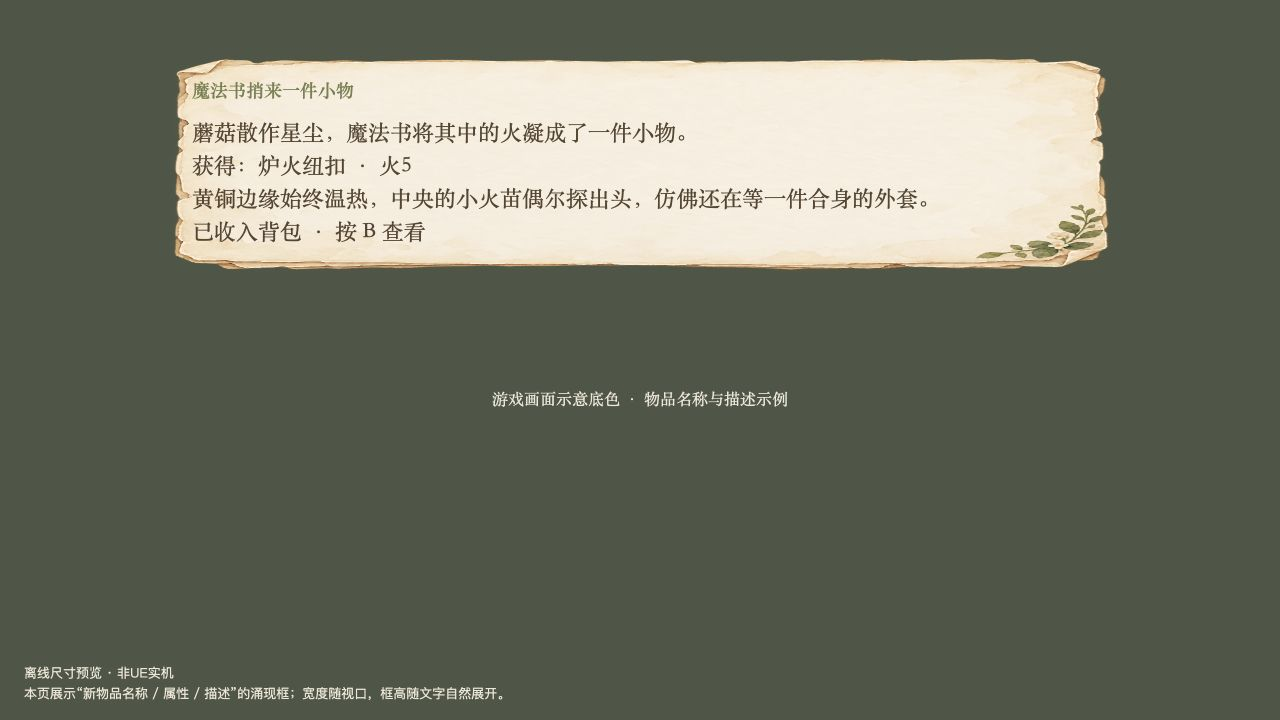
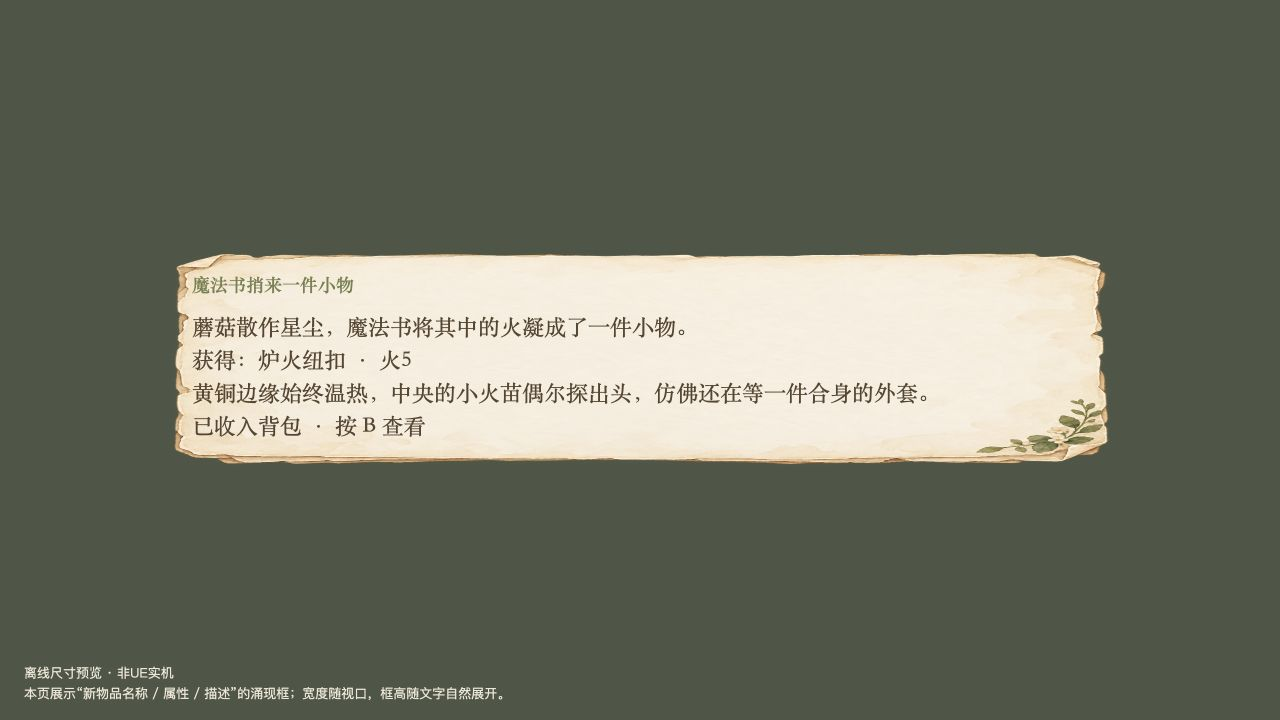
fix: center item emergence and NPC travel story notes

diff --git a/Docs/Item_Emergence_Preview.html b/Docs/Item_Emergence_Preview.html
@@ -1,4 +1,4 @@
-<!doctype html><html lang="zh-CN"><meta charset="utf-8"><meta name="viewport" content="width=device-width,initial-scale=1"><title>物品涌现提示框</title><style>*{box-sizing:border-box}body{margin:0;background:#4e5646;color:#57452f;font-family:"Songti SC",serif}.note{position:absolute;bottom:16px;left:24px;right:24px;color:#eee7d7;font:13px sans-serif;line-height:1.6}.anchor{padding:48px 24px 24px;display:flex;justify-content:center}.paper{width:min(960px,100%);padding:28px 32px 36px;background:url('../Content/UI/Textures/WoodlandPaper.png') center/100% 100%;height:auto}.heading{font-size:18px;font-weight:600;color:#77804d;line-height:1.5;margin:0 0 12px}.text{font-size:22px;line-height:1.5;white-space:pre-line;overflow-wrap:anywhere;margin:0}.surface{position:absolute;inset:0;pointer-events:none}.hint{color:#eee7d7;font-size:16px;text-align:center;margin:80px 24px 0}</style><div class="anchor"><section class="paper"><h1 class="heading">魔法书捎来一件小物</h1><p class="text">蘑菇散作星尘，魔法书将其中的火凝成了一件小物。
+<!doctype html><html lang="zh-CN"><meta charset="utf-8"><meta name="viewport" content="width=device-width,initial-scale=1"><title>物品涌现提示框</title><style>*{box-sizing:border-box}body{margin:0;background:#4e5646;color:#57452f;font-family:"Songti SC",serif}.note{position:absolute;bottom:16px;left:24px;right:24px;color:#eee7d7;font:13px sans-serif;line-height:1.6}.anchor{min-height:100dvh;padding:24px;display:flex;justify-content:center;align-items:center}.paper{width:min(960px,100%);padding:28px 32px 36px;background:url('../Content/UI/Textures/WoodlandPaper.png') center/100% 100%;height:auto}.heading{font-size:18px;font-weight:600;color:#77804d;line-height:1.5;margin:0 0 12px}.text{font-size:22px;line-height:1.5;white-space:pre-line;overflow-wrap:anywhere;margin:0}.surface{position:absolute;inset:0;pointer-events:none}.hint{color:#eee7d7;font-size:16px;text-align:center;margin:80px 24px 0}</style><div class="anchor"><section class="paper"><h1 class="heading">魔法书捎来一件小物</h1><p class="text">蘑菇散作星尘，魔法书将其中的火凝成了一件小物。
 获得：炉火纽扣 · 火5
 黄铜边缘始终温热，中央的小火苗偶尔探出头，仿佛还在等一件合身的外套。
-已收入背包 · 按 B 查看</p></section></div><p class="hint">游戏画面示意底色 · 物品名称与描述示例</p><div class="note">离线尺寸预览 · 非UE实机<br>本页展示“新物品名称 / 属性 / 描述”的涌现框；宽度随视口，框高随文字自然展开。</div></html>
+已收入背包 · 按 B 查看</p></section></div><div class="note">离线尺寸预览 · 非UE实机<br>本页展示“新物品名称 / 属性 / 描述”的涌现框；宽度随视口，框高随文字自然展开。</div></html>

diff --git a/Docs/NPC_Travel_Centered_Preview.html b/Docs/NPC_Travel_Centered_Preview.html
@@ -1,0 +1,1 @@
+<!doctype html><html lang="zh-CN"><meta charset="utf-8"><meta name="viewport" content="width=device-width,initial-scale=1"><title>交付物品后的引路故事</title><style>*{box-sizing:border-box}body{margin:0;background:#4e5646;color:#57452f;font-family:"Songti SC",serif}.anchor{min-height:100dvh;padding:24px;display:flex;align-items:center;justify-content:center}.paper{width:min(1000px,100%);height:min(400px,calc(100dvh - 48px));padding:30px 32px 42px;background:url('../Content/UI/Textures/WoodlandPaper.png') center/100% 100%;display:flex;flex-direction:column}.head{display:flex;gap:14px;align-items:center;flex-shrink:0}.portrait{width:52px;height:60px;border:1px solid #ba9b70;border-radius:20px 20px 4px 4px;display:flex;align-items:center;justify-content:center;font-size:18px;flex-shrink:0}.role{font-size:18px;color:#87765b}.title{font-size:25px;margin-top:5px}.story{font-size:22px;line-height:1.6;overflow:auto;flex:1;min-height:0;margin:14px 0}.foot{font-size:18px;line-height:1.5;color:#87765b;flex-shrink:0}.note{position:absolute;bottom:12px;left:24px;color:#eee7d7;font:12px sans-serif;line-height:1.6;pointer-events:none}@media(max-width:747px){.paper{height:min(600px,calc(100dvh - 48px))}}</style><div class="anchor"><section class="paper"><header class="head"><div class="portrait">头像</div><div><div class="role">小物正在为你带路</div><div class="title">去见 Fawnia</div></div></header><p class="story">你交出没有舌头的铜铃，它从掌心升起，沿小路轻轻摇晃。每当你经过岔口，它便转向一边，响起一声清脆的铃音。直到你看见 Fawnia，铃身才在最后一声轻响中散成细尘。</p><footer class="foot">已交付　没有舌头的铜铃 ×1<br>WASD / Esc　停止跟随</footer></section></div><div class="note">交出物品后的行进故事 · 屏幕居中<br>离线尺寸预览 · 非UE实机 · 头像占位与故事示例</div></html>

diff --git a/Source/demo3_UE58/ForestNPCInteraction.cpp b/Source/demo3_UE58/ForestNPCInteraction.cpp
@@ -72,7 +72,7 @@ void UForestNPCInteractionWidget::SetPanel(EPanel Mode)
  Panel=Mode;bFinderVisible=Mode==EPanel::Selecting || Mode==EPanel::Confirming;
  Switcher->SetActiveWidgetIndex(static_cast<int32>(Mode));
  Root->SetVisibility(bFinderVisible || Mode==EPanel::Conversation?EVisibility::Visible:EVisibility::HitTestInvisible);
- AdaptivePanel->SetVAlign(bFinderVisible?VAlign_Center:VAlign_Bottom);
+ AdaptivePanel->SetVAlign(bFinderVisible || Mode==EPanel::Travelling?VAlign_Center:VAlign_Bottom);
  Title->SetVisibility(Mode==EPanel::Travelling?EVisibility::Collapsed:EVisibility::HitTestInvisible);
  Subtitle->SetVisibility(bFinderVisible?EVisibility::HitTestInvisible:EVisibility::Collapsed);
  Prompt->SetVisibility(Mode==EPanel::Travelling?EVisibility::Collapsed:EVisibility::HitTestInvisible);

diff --git a/Source/demo3_UE58/ForestHarvestMagic.cpp b/Source/demo3_UE58/ForestHarvestMagic.cpp
@@ -110,7 +110,7 @@ TSharedRef<SWidget> UForestHarvestNoticeWidget::RebuildWidget()
 {
  // Full-viewport anchor; only the paper has a preferred width. Height follows the text.
  return SNew(SOverlay)
- +SOverlay::Slot().HAlign(HAlign_Center).VAlign(VAlign_Top).Padding(FMargin(24,48,24,24))
+ +SOverlay::Slot().HAlign(HAlign_Center).VAlign(VAlign_Center).Padding(FMargin(24))
  [SAssignNew(Frame,SBox).WidthOverride(960)
   [SNew(SForestPaperBorder).Padding(FMargin(32,28,32,36))
    [SNew(SVerticalBox)

diff --git a/CHANGELOG.md b/CHANGELOG.md
@@ -2,6 +2,17 @@
 
 本文件记录增量仓库每次提交上传的内容。最新更新放在最前面；每次上传前必须把本条记录与对应文件一起提交。验证状态应区分“本次验证”“历史记录”与“未验证”。
 
+## 2026-10-27-12：物品涌现与交付后的NPC引路故事居中
+
+- **目的 / 基线 / 前置**：按用户明确位置与入口，将两张字条居中；main `03bfd46`，前置批次09/10。
+- **修改**：Source/demo3_UE58/ForestHarvestMagic.cpp、ForestNPCInteraction.cpp；Docs/Item_Emergence_Preview.html、Item_Emergence_Preview.jpg、HarvestMagic_2026-10-13.md、NPC_Finder_UI_2026-10-14.md；本记录。
+- **新增**：Docs/NPC_Travel_Centered_Preview.html、NPC_Travel_Centered_Preview.jpg，独立展示交付物品后的引路文本。
+- **行为**：物品涌现Overlay垂直居中、对称24边距；NPC Travelling故事页也居中，保留既有大字、尺寸和鼠标穿透。普通对话/附近提示原位置保留，不改交付、AI、寻路或退款。
+- **依赖 / 应用**：合并两份cpp并编译，沿用纸页PNG及前批Widget声明，无地图/配置/存档变更。旧顶部/底部展示为历史，以本批独立预览为准。
+- **验证**：Mac UE5.8源码编译与链接成功；源码同步、差异检查；两张离线字条三尺寸中心差值均0且在视口内，保存对应截图。
+- **未验证**：未开UE/PIE，原生DPI、实际遮挡与行进切换待实机验收；截图为离线样例。
+- **上传状态**：待上传，远程核对后补记。
+
 ## 2026-10-27-11：补记物品涌现与NPC引路界面上传结果
 
 - **目的 / 基线 / 前置**：补记批次09/10；基于 `5243a1d`，包含 `2a74fd2`。
